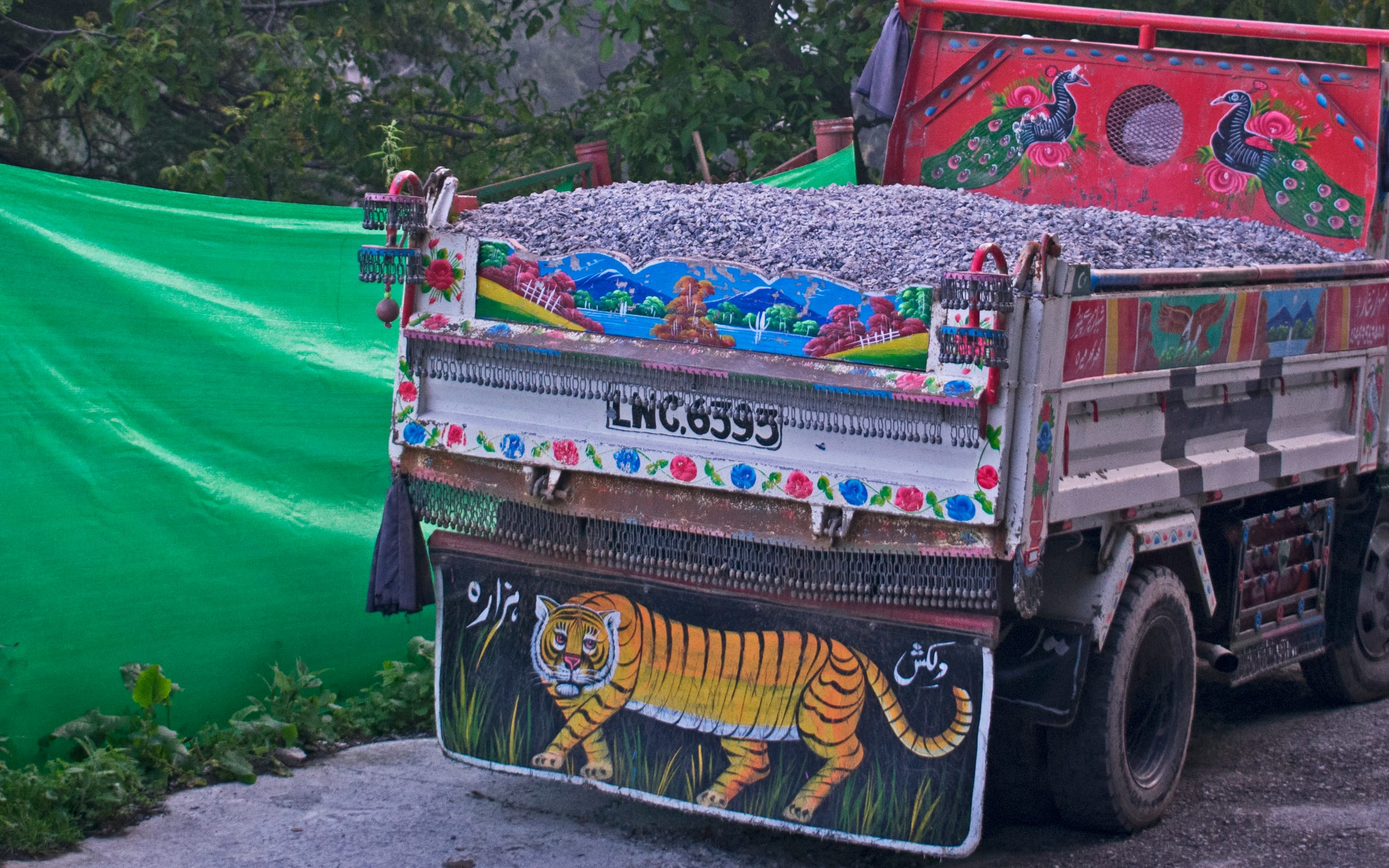
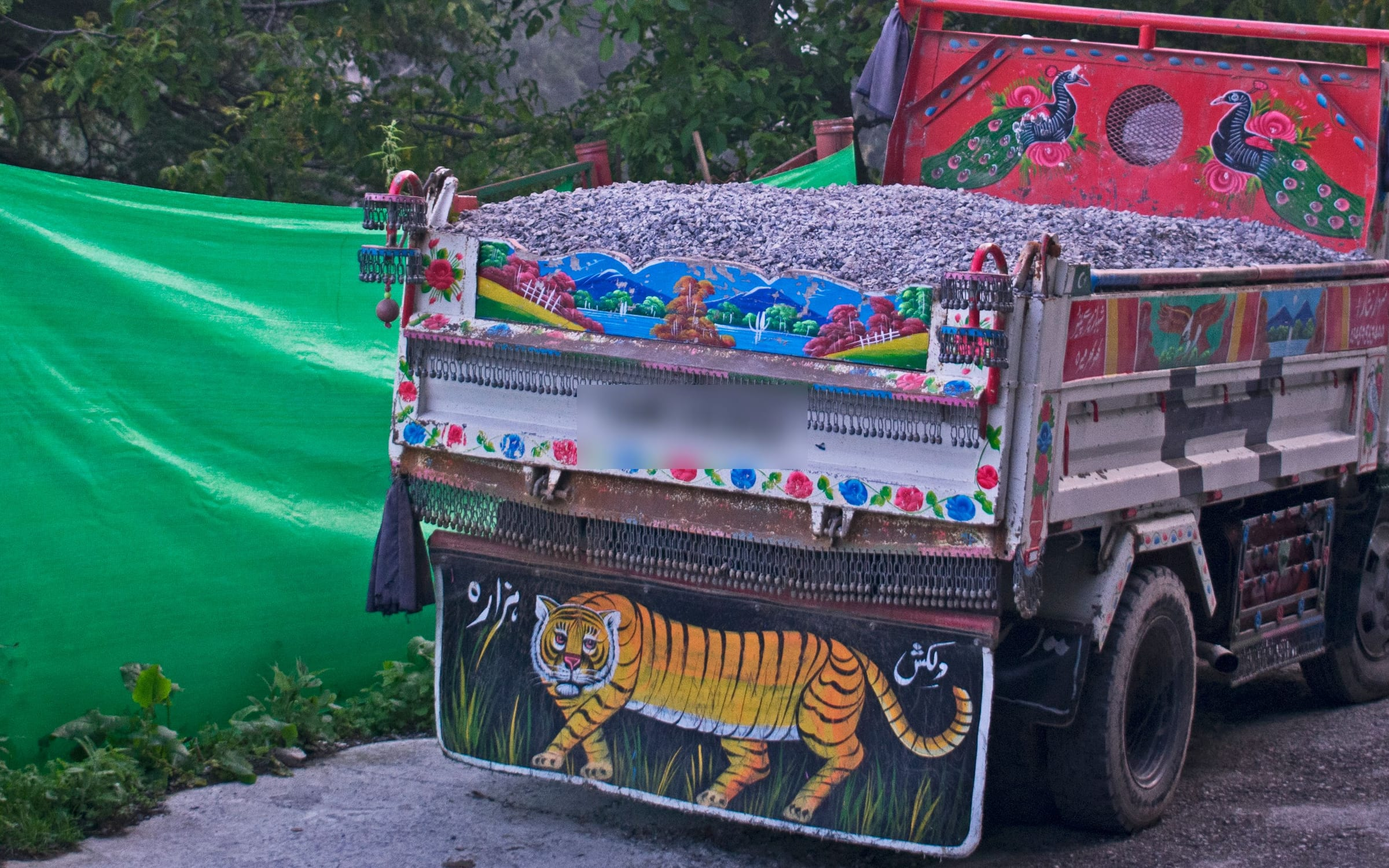
feat(motion): add the motion layer (#20)
## What and why

Milestone 7, built as the taste-skill motion layer, with every move
answering "what happened, or where should I look":

- **Signature move: the pinned story.** Already part of the composition:
the ON THE ROAD board holding while the projects pass, and the How I
ship stage switching state.
- **Load:** the name rises line by line from behind its baseline (900
ms, 110 ms apart), then the lead and facts.
- **Card to stub:** as the first screen scrolls away, the hero card
shrinks toward the bilty stub at bottom-right. It stays opaque and fades
only in the last 30%, so its text is never half-transparent over the
photo.
- **Entrances:** below the first screen, each section's parts (heading,
text, figure, list, proof row) rise 24px once, 70 ms apart. Nothing
above the fold is hidden, and nothing hides without script.
- **Moving pictures:** a 26 s idle drift on the hero photograph (the
truck idling), and a ±4% drift on the contact photograph.
- **Controls:** hover lift and press scale on buttons, plus arrow
travel, panel and screen nudges, and the footer menu shift, as already
built.

GSAP and ScrollTrigger handle the two scroll-linked moves: **44 kB
gzip**, the only JS bundle. Everything else is CSS and one
IntersectionObserver.

**Also in this PR:**
- The hero photograph now has the truck's number plate blurred. The card
used to cover it, but the card now moves away, so the plate would have
shown. `credits.json` records the alteration, as CC BY-SA requires.
[…]

Changed region(s): [[0.4062, 0.4293, 0.5938, 0.552]]

diff --git a/src/scripts/motion.ts b/src/scripts/motion.ts
@@ -1,0 +1,65 @@
+// The motion layer: transform and opacity only, and nothing at all under prefers-reduced-motion
+// (the page is complete without it). Three parts:
+//  1. entrances: below the first screen, each section's parts rise in once, 70ms apart;
+//  2. the hero card scales down toward the bilty stub as the first screen scrolls away;
+//  3. the contact photograph drifts a little against the scroll.
+import { gsap } from 'gsap';
+import { ScrollTrigger } from 'gsap/ScrollTrigger';
+
+const reduce = window.matchMedia('(prefers-reduced-motion: reduce)').matches;
+
+function entrances() {
+  const parts = 'h2, h3, p, figure, ul, ol, dl, .stop, .proof-row, .panel-sub, .row, .card, .menu li';
+  const sections = document.querySelectorAll<HTMLElement>('main > section, main > header, main > figure, footer, .work .panel, .step');
+  const fold = window.innerHeight;
+  const io = new IntersectionObserver(
+    (entries) => entries.forEach((e) => {
+      if (!e.isIntersecting) return;
+      e.target.classList.add('is-in');
+      io.unobserve(e.target);
+    }),
+    { rootMargin: '0px 0px -12% 0px' },
+  );
+  sections.forEach((section) => {
+    let i = 0;
+    section.querySelectorAll<HTMLElement>(parts).forEach((el) => {
+      // Only what starts below the first screen, and never inside the sticky stage or a pinned board.
+      if (el.getBoundingClientRect().top < fold || el.closest('.stage, .board, [data-ui] *') || el.matches('.panels')) return;
+      if (el.parentElement?.closest('[data-reveal]')) return;
+      el.dataset.reveal = '';
+      el.style.setProperty('--i', String(Math.min(i++, 6)));
+      el.style.transitionDelay = `${Math.min(i, 6) * 70}ms`;
+      io.observe(el);
+    });
+  });
+}
+
+function heroCard() {
+  const card = document.querySelector<HTMLElement>('[data-hero-card]');
+  const hero = card?.closest('section');
+  if (!card || !hero) return;
+  // The card stays opaque while it shrinks toward the stub, and fades only at the end of the move,
+  // so its text is never left half-transparent over the photograph.
+  const tl = gsap.timeline({ scrollTrigger: { trigger: hero, start: 'top top', end: 'bottom 35%', scrub: 0.5 } });
+  tl.to(card, { scale: 0.6, yPercent: 18, transformOrigin: '100% 100%', ease: 'none', duration: 1 }, 0)
+    .to(card, { opacity: 0, ease: 'none', duration: 0.3 }, 0.7);
+}
+
+function contactDrift() {
+  const photo = document.querySelector<HTMLElement>('.contact-photo');
+  const section = photo?.closest('section');
+  if (!photo || !section) return;
+  gsap.fromTo(photo, { yPercent: -4, scale: 1.1 }, {
+    yPercent: 4,
+    scale: 1.1,
+    ease: 'none',
+    scrollTrigger: { trigger: section, start: 'top bottom', end: 'bottom top', scrub: true },
+  });
+}
+
+if (!reduce) {
+  gsap.registerPlugin(ScrollTrigger);
+  entrances();
+  heroCard();
+  contactDrift();
+}

diff --git a/src/styles/base.css b/src/styles/base.css
@@ -81,7 +81,7 @@ p + p { margin-top: 0.9em; }
 @media (prefers-reduced-motion: no-preference) {
   .js [data-rise] { opacity: 0; transform: translateY(24px); animation: rise var(--t-reveal) var(--ease-out) forwards; animation-delay: calc(var(--i, 0) * var(--stagger-item) + 120ms); }
   .js .lines [data-line] { transform: translateY(105%); animation: line 900ms var(--ease-out) forwards; animation-delay: calc(var(--i, 0) * var(--stagger-line) + 150ms); }
-  .js [data-reveal] { opacity: 0; transform: translateY(24px); transition: opacity 700ms var(--ease-out), transform 900ms var(--ease-out); }
+  .js [data-reveal] { opacity: 0; transform: translateY(24px); transition-property: opacity, transform; transition-duration: 700ms, 900ms; transition-timing-function: var(--ease-out); }
   .js [data-reveal].is-in { opacity: 1; transform: none; }
 }
 @keyframes rise { to { opacity: 1; transform: none; } }
